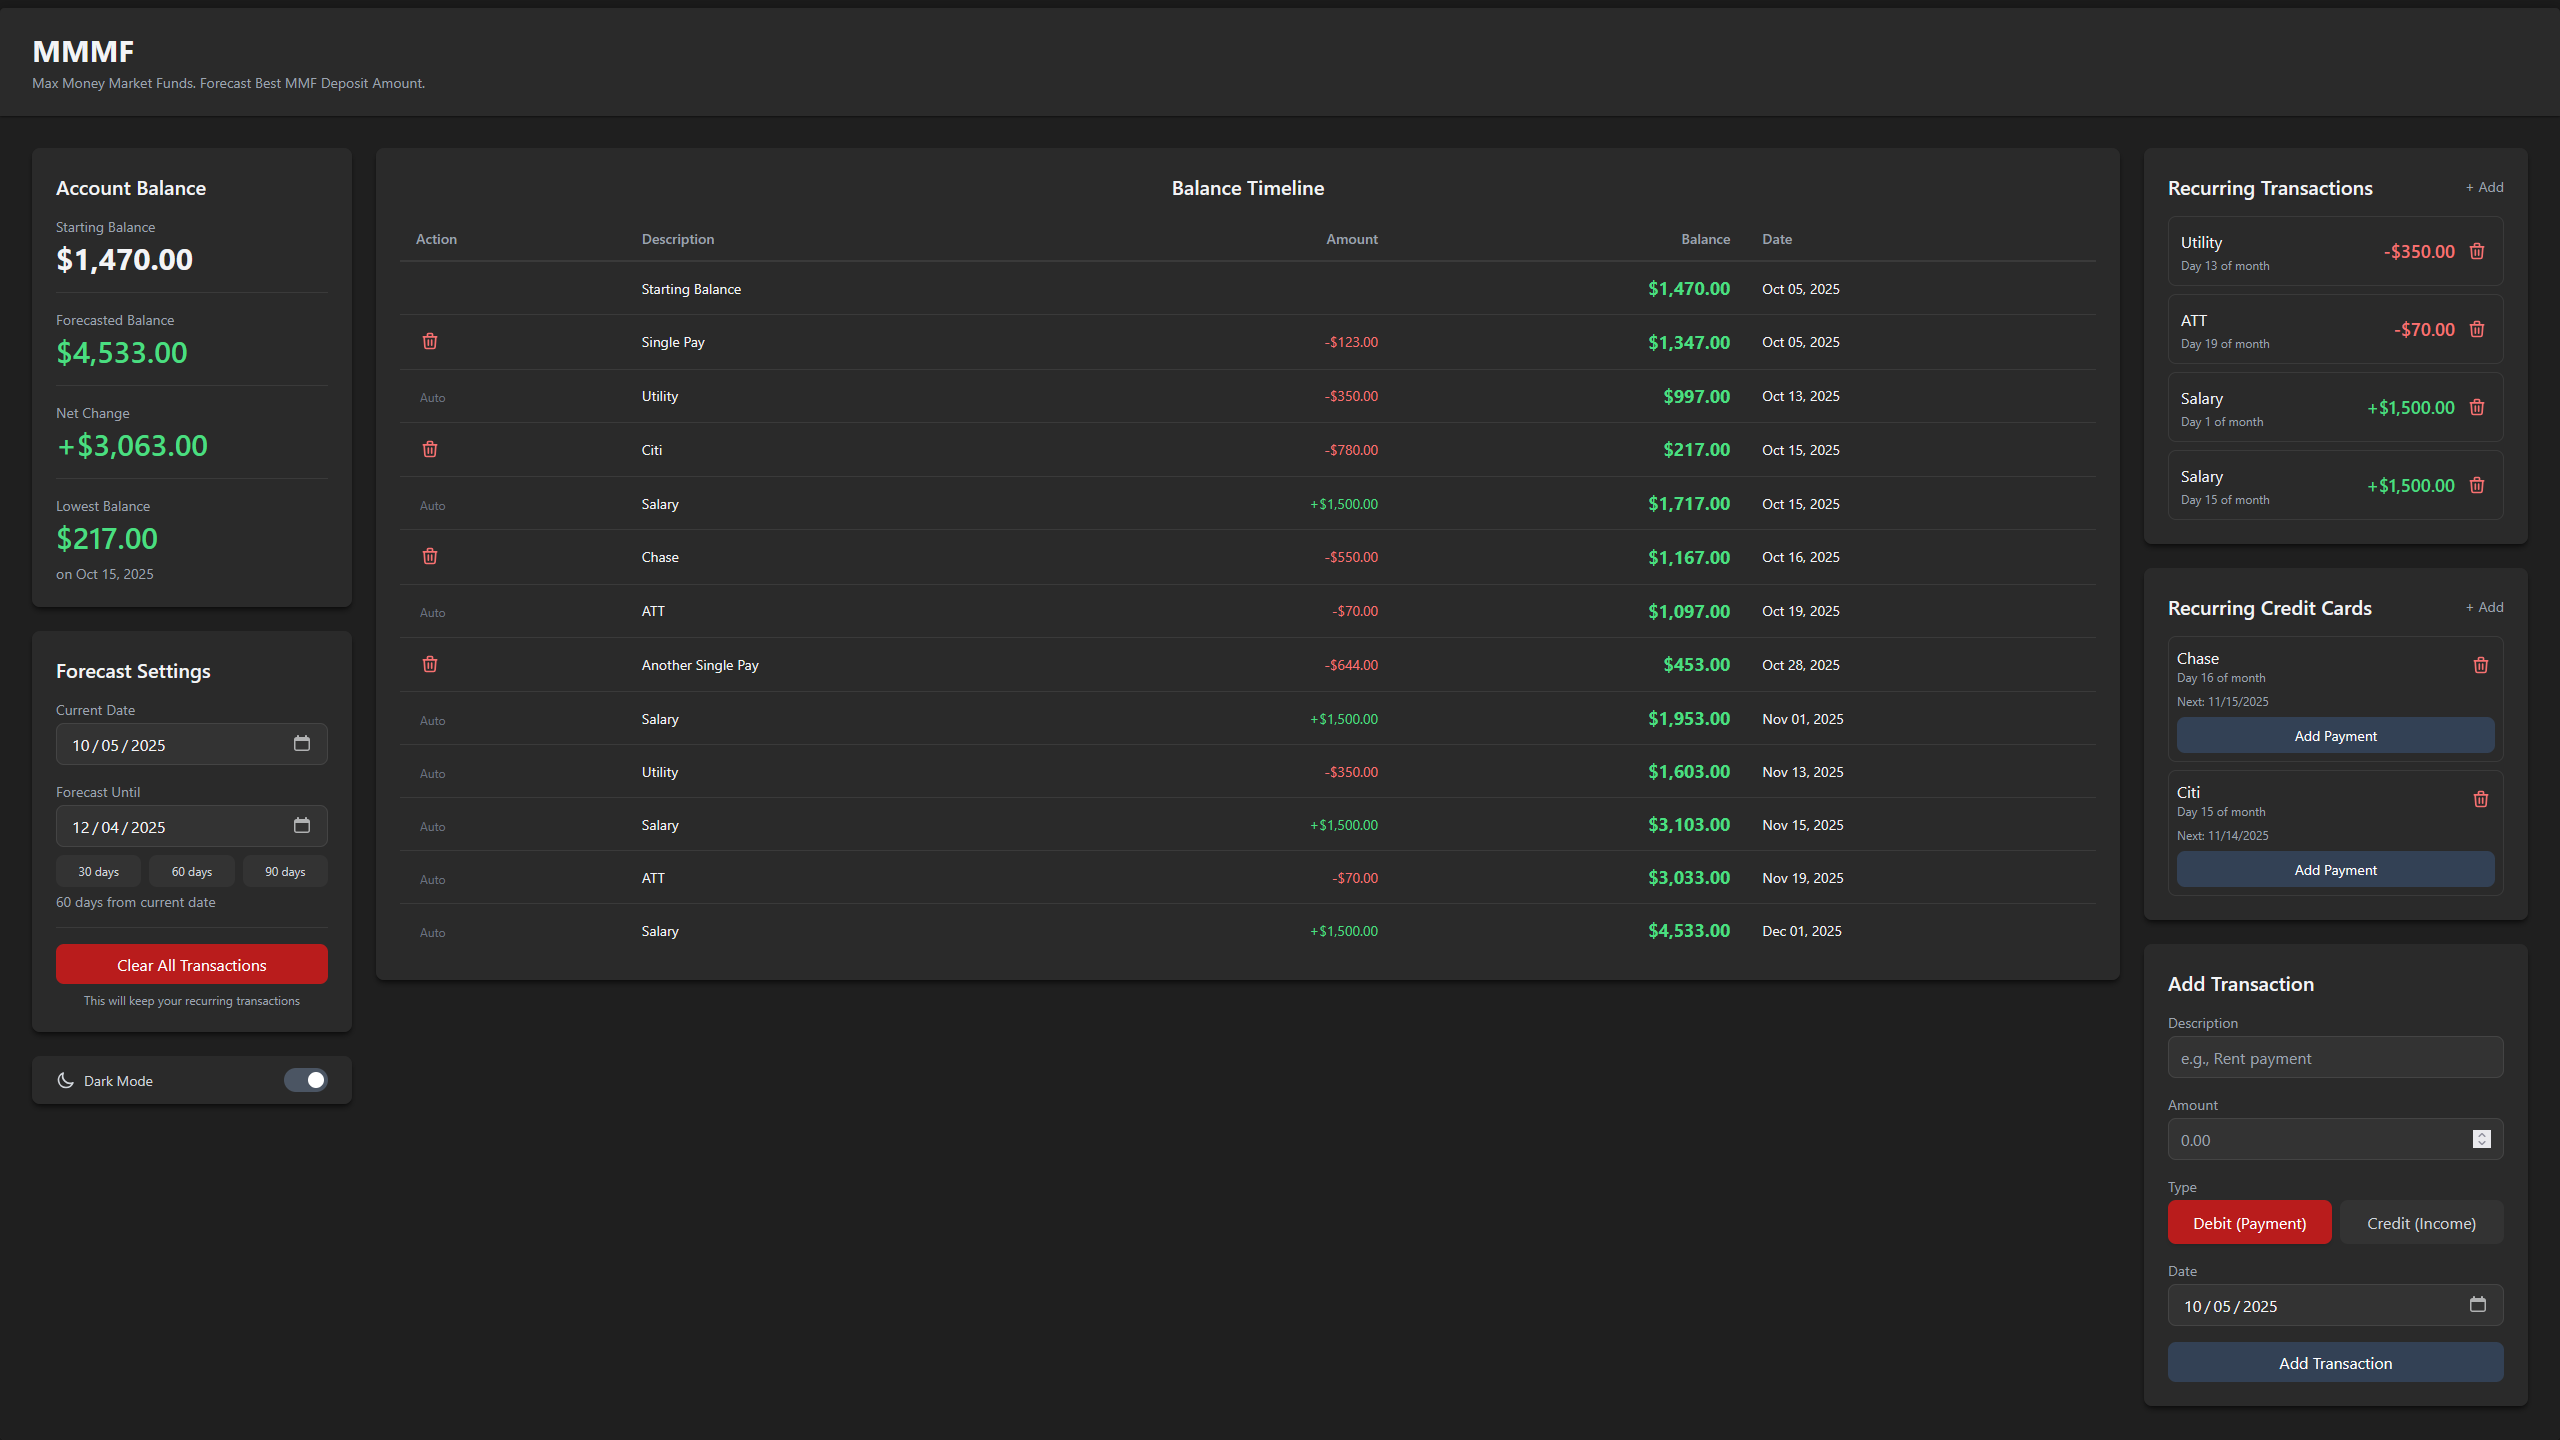
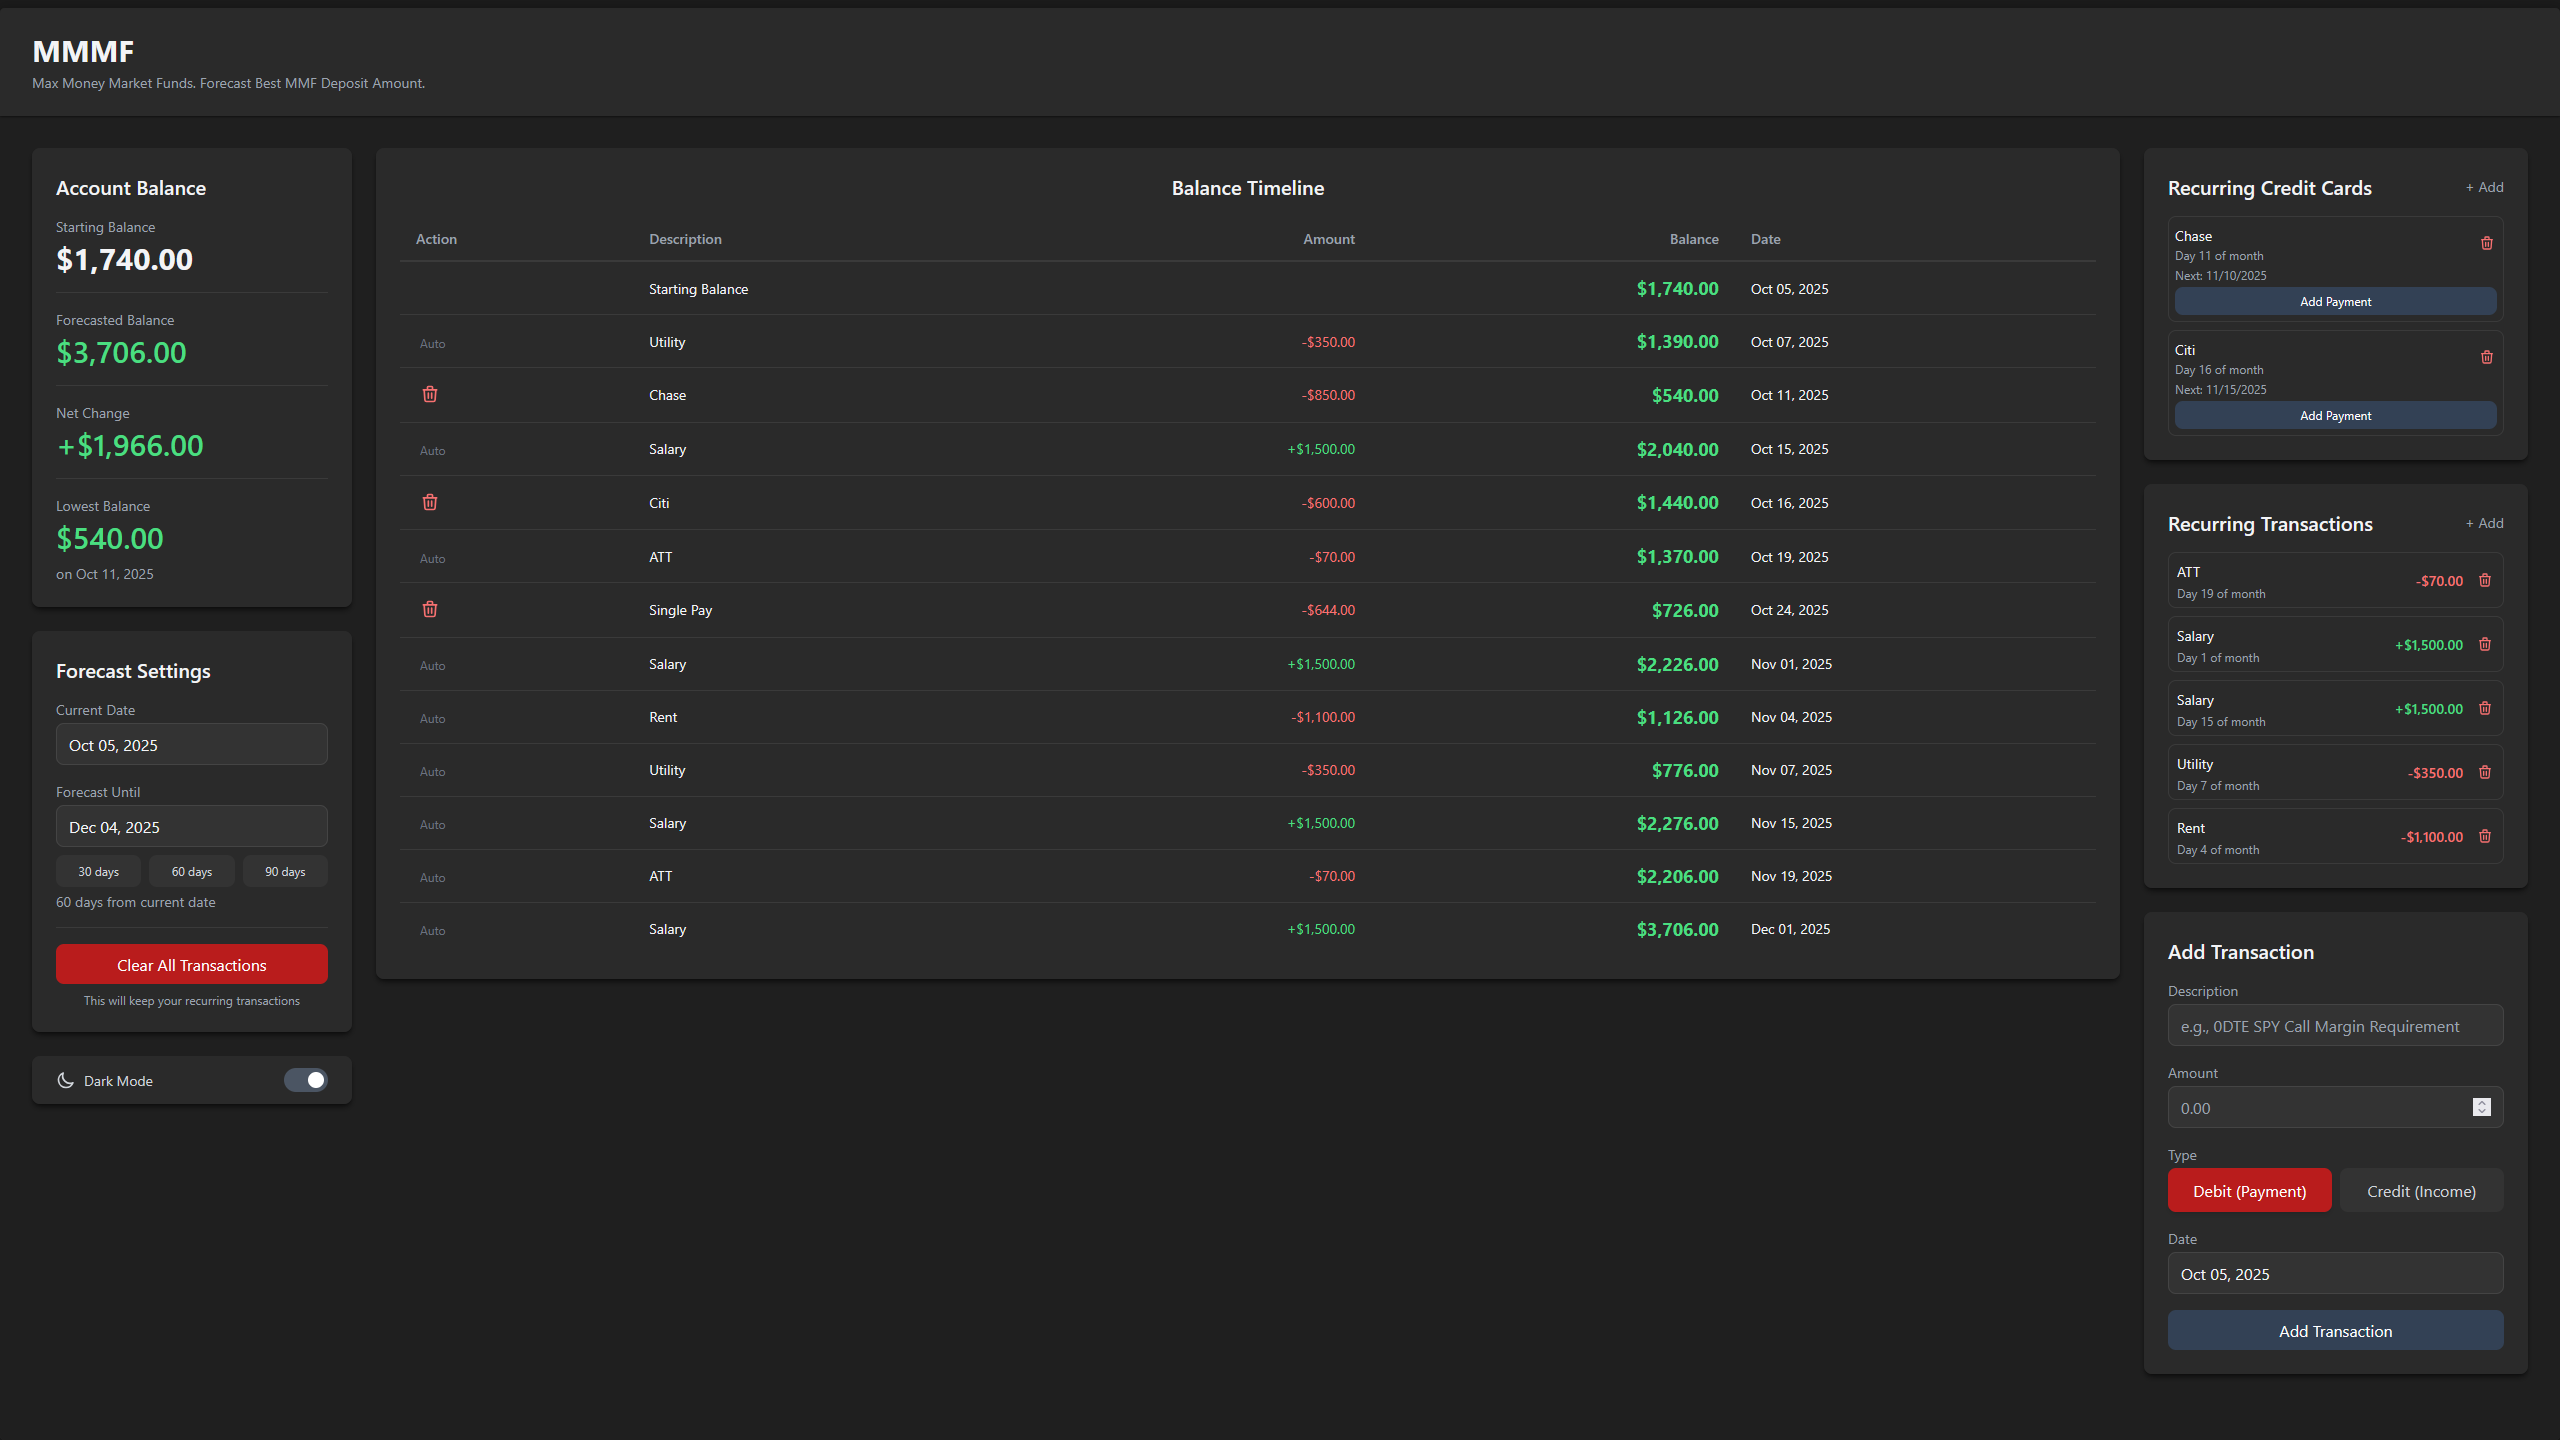
feat: better eg and init data

diff --git a/server/index.js b/server/index.js
@@ -39,9 +39,25 @@ async function initializeDataDir() {
     try {
       await fs.access(SETTINGS_FILE);
     } catch {
+      // Initialize with default settings including current date and 30-day forecast
+      const today = new Date();
+      const todayStr = today.toISOString().split("T")[0];
+
+      const forecastEnd = new Date(today);
+      forecastEnd.setDate(forecastEnd.getDate() + 30);
+      const forecastEndStr = forecastEnd.toISOString().split("T")[0];
+
       await fs.writeFile(
         SETTINGS_FILE,
-        JSON.stringify({ startingBalance: 0 }, null, 2)
+        JSON.stringify(
+          {
+            startingBalance: 0,
+            currentDate: todayStr,
+            forecastEndDate: forecastEndStr,
+          },
+          null,
+          2
+        )
       );
     }
 
@@ -259,8 +275,26 @@ app.delete("/api/credit-cards/:id", async (req, res) => {
 
 // Get settings (starting balance, etc.)
 app.get("/api/settings", async (req, res) => {
-  const settings = await readJsonFile(SETTINGS_FILE);
-  res.json(settings || { startingBalance: 0 });
+  let settings = await readJsonFile(SETTINGS_FILE);
+
+  // Ensure default values if settings exist but are missing fields
+  if (!settings) {
+    settings = { startingBalance: 0 };
+  }
+
+  // Add default dates if missing
+  if (!settings.currentDate) {
+    const today = new Date();
+    settings.currentDate = today.toISOString().split("T")[0];
+  }
+
+  if (!settings.forecastEndDate) {
+    const forecastEnd = new Date(settings.currentDate);
+    forecastEnd.setDate(forecastEnd.getDate() + 30);
+    settings.forecastEndDate = forecastEnd.toISOString().split("T")[0];
+  }
+
+  res.json(settings);
 });
 
 // Update settings

diff --git a/src/components/TransactionForm.jsx b/src/components/TransactionForm.jsx
@@ -54,7 +54,7 @@ function TransactionForm({ onAddTransaction }) {
             value={formData.name}
             onChange={handleChange}
             className="input"
-            placeholder="e.g., Rent payment"
+            placeholder="e.g., 0DTE SPY Call Margin Requirement"
             required
           />
         </div>
